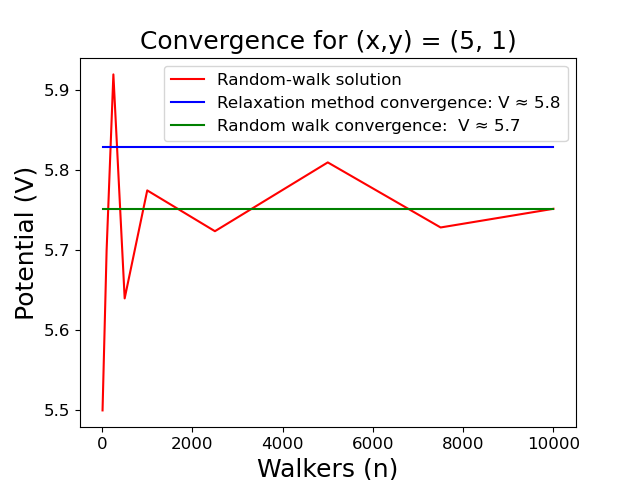
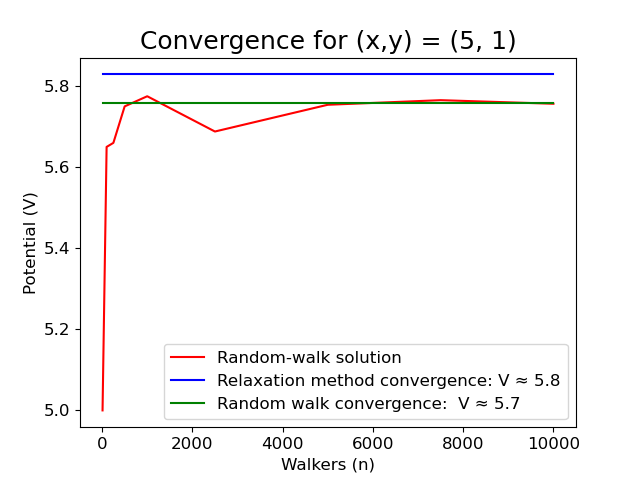
Fixat

diff --git a/Project 4/Greens function.py b/Project 4/Greens function.py
@@ -67,8 +67,8 @@ def find_potential(n=10,nwalks=200):
         boundary[i,0] = 5
         boundary[i,n] = 5
     # Set the the boundary position that maximizes the potential at [3, 5] to 20
-    #boundary[3,0] = boundary[4,0] = boundary[5,0] = boundary[6,0] = boundary[7,0] = 20
-    boundary[0,3] = boundary[0,4] = boundary[0,5] = boundary[0,6] = boundary[0,7] = 20
+    boundary[3,0] = boundary[4,0] = boundary[5,0] = boundary[6,0] = boundary[7,0] = 20
+    #boundary[0,3] = boundary[0,4] = boundary[0,5] = boundary[0,6] = boundary[0,7] = 20
     
     v = np.copy(boundary)      # Store potential for all positions
 
@@ -84,7 +84,7 @@ def find_potential(n=10,nwalks=200):
     
     # v is now computed for all locations and can be plotted
     fig = plt.figure()
-    plt.title('Maximized potential for [5,3]', fontsize = 18)
+    plt.title('Maximized potential for [3,5]')
     im = plt.imshow(v, cmap=None, interpolation='nearest')
     cb = fig.colorbar(im)
     cb.ax.tick_params(labelsize=14)
@@ -98,7 +98,7 @@ def plot_Greens_function(n=10, nwalks=500, position=[5,5]):
     G /= nwalks
        
     fig = plt.figure()
-    plt.title("Green's function for " + str(position), fontsize = 18)
+    plt.title("Green's function for " + str(position))
     im = plt.imshow(G, cmap=None, interpolation='nearest')
     cb = fig.colorbar(im)
     cb.ax.tick_params(labelsize=14)
@@ -107,11 +107,11 @@ def plot_Greens_function(n=10, nwalks=500, position=[5,5]):
 
 # 10.18 a) ===================================================================
 
-#plot_Greens_function(n=10, nwalks=10000, position=[5,5])
-#plot_Greens_function(n=10, nwalks=10000, position=[3,5])
-#plot_Greens_function(n=10, nwalks=10000, position=[5,3])
+'''plot_Greens_function(n=10, nwalks=10000, position=[5,5])
+plot_Greens_function(n=10, nwalks=10000, position=[3,5])
+plot_Greens_function(n=10, nwalks=10000, position=[5,3])'''
   
 # 10.18 b) ===================================================================  
 # Change the positions with potential 20 in order to maxizime the potential 
 # for various positions
-#find_potential(n=10, nwalks=1000)
+find_potential(n=10, nwalks=1000)

diff --git a/Project 4/randomwalk.py b/Project 4/randomwalk.py
@@ -16,7 +16,7 @@ tolerance = 0.000001
 
 Nlist = [10, 100, 250, 500, 1000, 2500, 5000, 7500, 10000]
 x = 5
-y = 1
+y = 6
 V = 0
 
 # ------------------------- Define functions
@@ -133,8 +133,8 @@ def calculate2():
     plt.legend(['Random-walk solution',
                 'Relaxation method convergence: V ≈ ' + str(round(v[x,y],1)),
                 'Random walk convergence:  V ≈ ' + str(round(walk(Nlist[-1]),1))])
-    plt.xlabel('Walkers (n)', fontsize = 18)
-    plt.ylabel('Potential (V)', fontsize = 18)
+    plt.xlabel('Walkers (n)')
+    plt.ylabel('Potential (V)')
     plt.show()
 
     plt.figure()
@@ -143,8 +143,8 @@ def calculate2():
               fontsize = 18)
     plt.plot(Nlist, errorlist, marker = '.',
              color = 'tab:green', markersize = 10)
-    plt.xlabel('Walkers (n)', fontsize = 18)
-    plt.ylabel('SEM', fontsize = 18)
+    plt.xlabel('Walkers (n)')
+    plt.ylabel('SEM')
     plt.show()
 
 initiateVMatrices()
